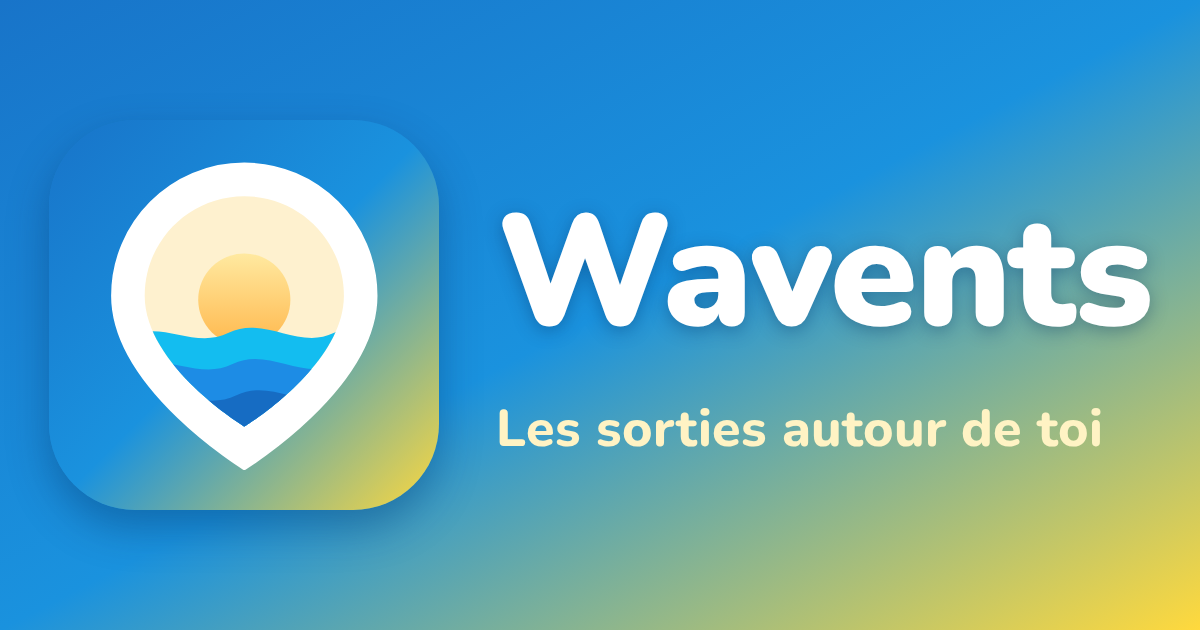
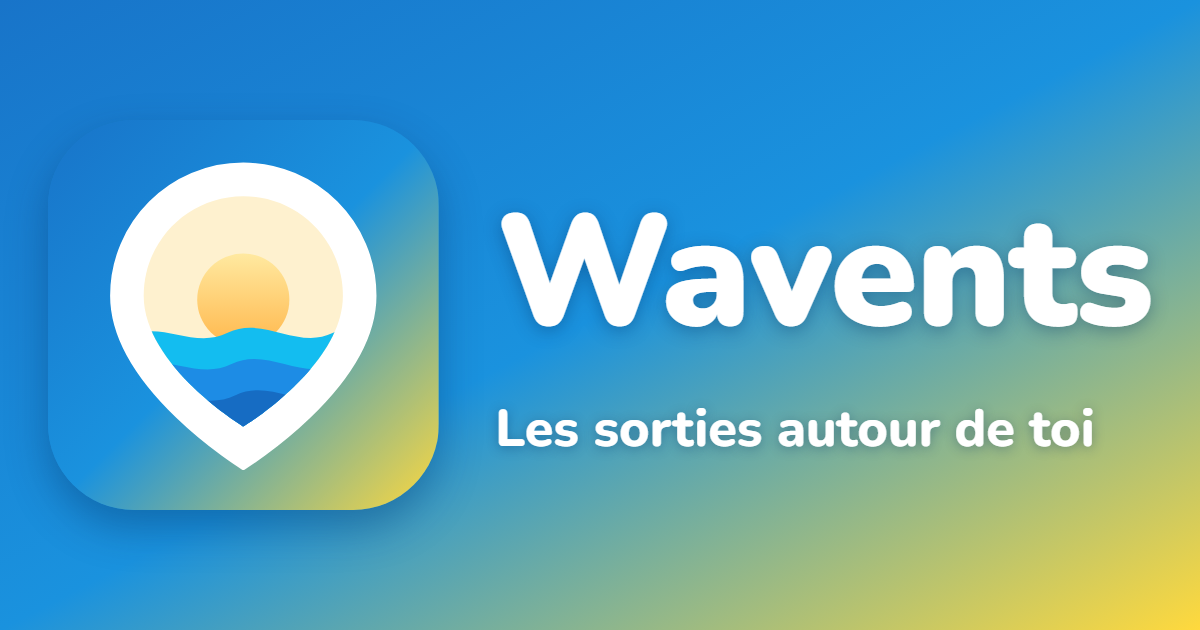
Image de partage : slogan en blanc (version à jour de branding/), adresse changée pour vider le cache des messageries
Claude-Session: https://claude.ai/code/session_018Uk3rKZYmagkVDNhdSCcai

diff --git a/generate.py b/generate.py
@@ -759,7 +759,7 @@ def home_page(events: list[dict], all_upcoming: list[dict], now: datetime) -> st
         body,
         description=f"Concerts, marchés, fêtes, spectacles et sorties des {HOME_DAYS} prochains jours autour de toi, dans le Beaujolais et le nord de Lyon.",
         url=f"{BASE_URL}/",
-        image=f"{BASE_URL}/img/og.png",
+        image=f"{BASE_URL}/img/og.png?v=3",
         page_class="home",
     )
 
